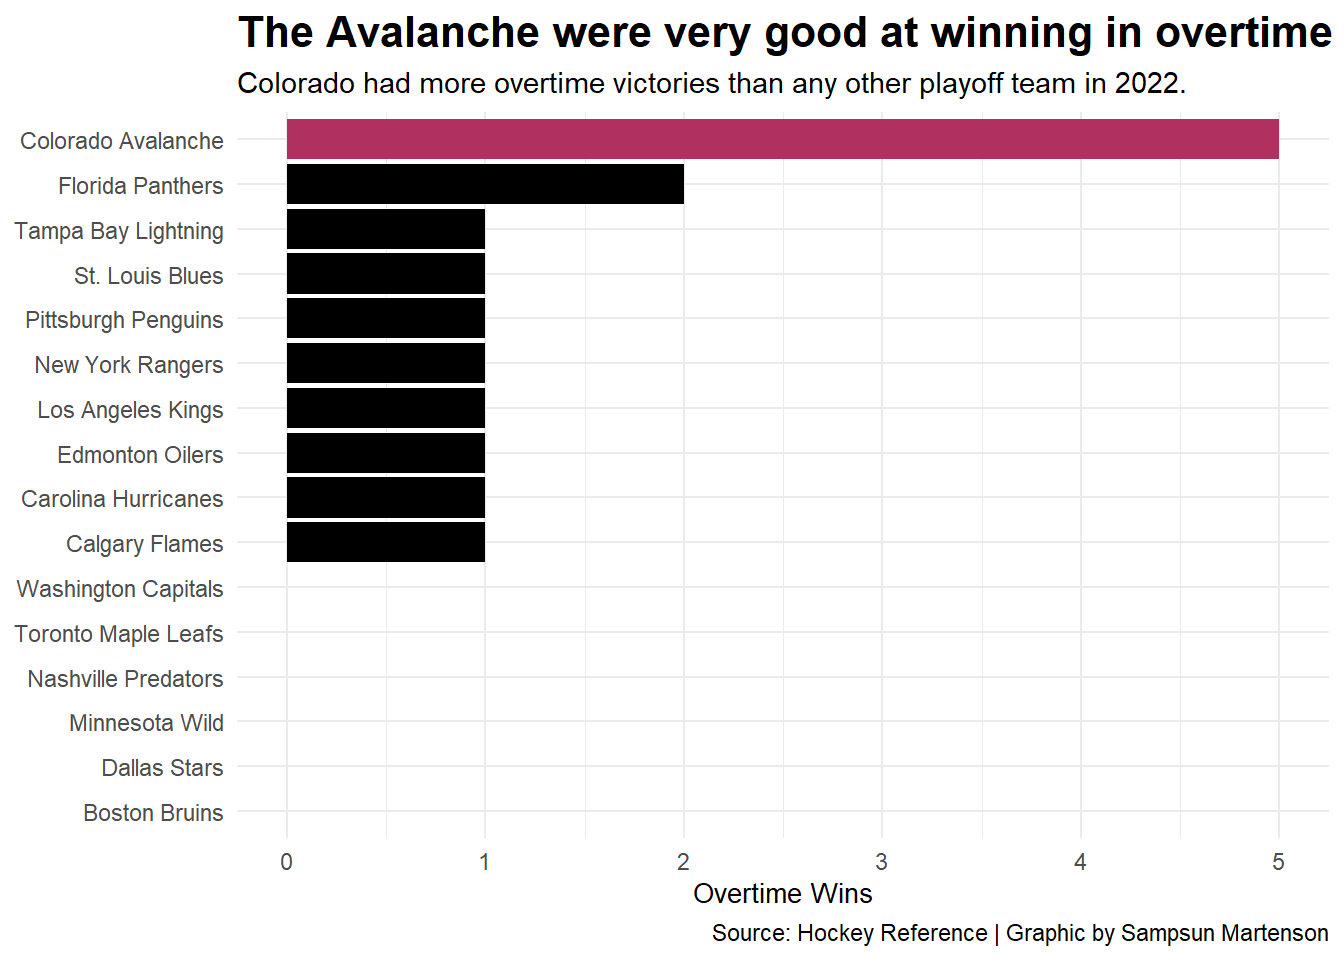
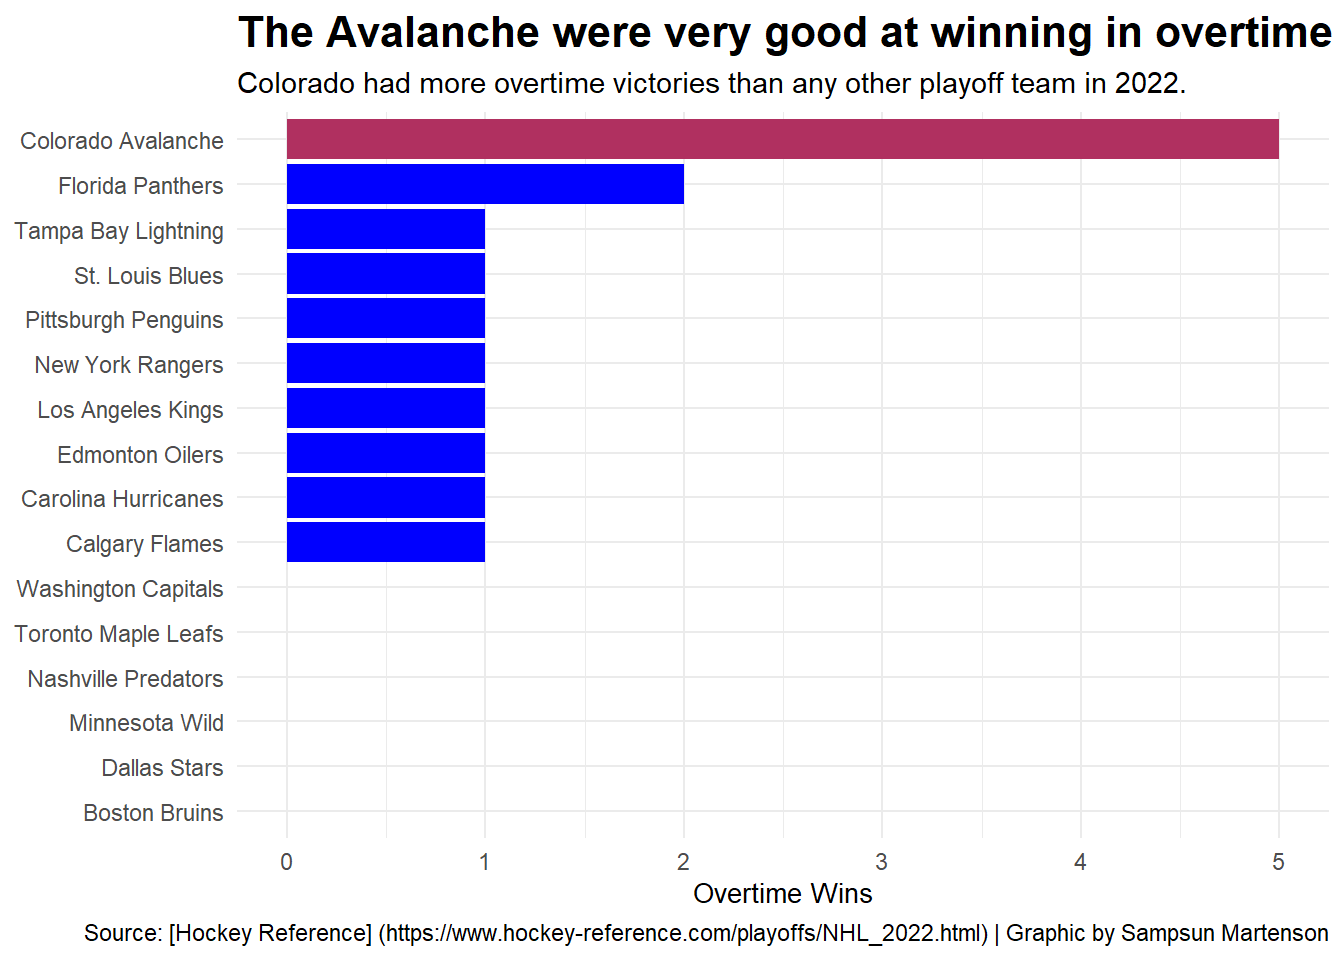
changes

Changed region(s): [[0.1875, 0.1562, 0.5312, 0.5938], [0.0625, 0.9375, 0.75, 1.0]]

diff --git a/posts/avalanche-dominance/index.html b/posts/avalanche-dominance/index.html
@@ -219,27 +219,19 @@ code span.wa { color: #60a0b0; font-weight: bold; font-style: italic; } /* Warni
 <div class="cell">
 <details>
 <summary>Code</summary>
-<div class="sourceCode cell-code" id="cb1"><pre class="sourceCode r code-with-copy"><code class="sourceCode r"><span id="cb1-1"><a href="#cb1-1" aria-hidden="true" tabindex="-1"></a><span class="fu">library</span>(tidyverse)</span></code><button title="Copy to Clipboard" class="code-copy-button"><i class="bi"></i></button></pre></div>
-</details>
-<div class="cell-output cell-output-stderr">
-<pre><code>── Attaching packages ─────────────────────────────────────── tidyverse 1.3.2 ──
-✔ ggplot2 3.4.0      ✔ purrr   1.0.1 
-✔ tibble  3.1.8      ✔ dplyr   1.0.10
-✔ tidyr   1.2.1      ✔ stringr 1.5.0 
-✔ readr   2.1.3      ✔ forcats 0.5.2 
-── Conflicts ────────────────────────────────────────── tidyverse_conflicts() ──
-✖ dplyr::filter() masks stats::filter()
-✖ dplyr::lag()    masks stats::lag()</code></pre>
-</div>
-<details>
-<summary>Code</summary>
-<div class="sourceCode cell-code" id="cb3"><pre class="sourceCode r code-with-copy"><code class="sourceCode r"><span id="cb3-1"><a href="#cb3-1" aria-hidden="true" tabindex="-1"></a><span class="fu">library</span>(readr)</span></code><button title="Copy to Clipboard" class="code-copy-button"><i class="bi"></i></button></pre></div>
+<div class="sourceCode cell-code" id="cb1"><pre class="sourceCode r code-with-copy"><code class="sourceCode r"><span id="cb1-1"><a href="#cb1-1" aria-hidden="true" tabindex="-1"></a><span class="fu">library</span>(tidyverse)</span>
+<span id="cb1-2"><a href="#cb1-2" aria-hidden="true" tabindex="-1"></a><span class="fu">library</span>(readr)</span>
+<span id="cb1-3"><a href="#cb1-3" aria-hidden="true" tabindex="-1"></a><span class="fu">library</span>(ggalt)</span>
+<span id="cb1-4"><a href="#cb1-4" aria-hidden="true" tabindex="-1"></a><span class="fu">library</span>(gt)</span>
+<span id="cb1-5"><a href="#cb1-5" aria-hidden="true" tabindex="-1"></a><span class="fu">library</span>(ggbeeswarm)</span>
+<span id="cb1-6"><a href="#cb1-6" aria-hidden="true" tabindex="-1"></a><span class="fu">library</span>(ggrepel)</span>
+<span id="cb1-7"><a href="#cb1-7" aria-hidden="true" tabindex="-1"></a><span class="fu">library</span>(ggtext)</span></code><button title="Copy to Clipboard" class="code-copy-button"><i class="bi"></i></button></pre></div>
 </details>
 </div>
 <div class="cell">
 <details>
 <summary>Code</summary>
-<div class="sourceCode cell-code" id="cb4"><pre class="sourceCode r code-with-copy"><code class="sourceCode r"><span id="cb4-1"><a href="#cb4-1" aria-hidden="true" tabindex="-1"></a>playoffs <span class="ot">&lt;-</span> <span class="fu">read_csv</span>(<span class="st">"data/AvalancheStats.csv"</span>)</span></code><button title="Copy to Clipboard" class="code-copy-button"><i class="bi"></i></button></pre></div>
+<div class="sourceCode cell-code" id="cb2"><pre class="sourceCode r code-with-copy"><code class="sourceCode r"><span id="cb2-1"><a href="#cb2-1" aria-hidden="true" tabindex="-1"></a>playoff <span class="ot">&lt;-</span> <span class="fu">read_csv</span>(<span class="st">"data/AvalancheStats.csv"</span>)</span></code><button title="Copy to Clipboard" class="code-copy-button"><i class="bi"></i></button></pre></div>
 </details>
 <div class="cell-output cell-output-stderr">
 <pre><code>Rows: 16 Columns: 12
@@ -253,6 +245,30 @@ dbl (11): Rk, GP, W, L, T, OW, OL, W-L%, G, GA, DIFF
 </div>
 <details>
 <summary>Code</summary>
+<div class="sourceCode cell-code" id="cb4"><pre class="sourceCode r code-with-copy"><code class="sourceCode r"><span id="cb4-1"><a href="#cb4-1" aria-hidden="true" tabindex="-1"></a>playoffs <span class="ot">&lt;-</span> playoff <span class="sc">%&gt;%</span></span>
+<span id="cb4-2"><a href="#cb4-2" aria-hidden="true" tabindex="-1"></a>  <span class="fu">mutate</span> (</span>
+<span id="cb4-3"><a href="#cb4-3" aria-hidden="true" tabindex="-1"></a>    <span class="at">GoalDifferential =</span> DIFF, </span>
+<span id="cb4-4"><a href="#cb4-4" aria-hidden="true" tabindex="-1"></a>    <span class="at">GoalsAgainst =</span> GA,</span>
+<span id="cb4-5"><a href="#cb4-5" aria-hidden="true" tabindex="-1"></a>    <span class="at">GoalsFor =</span> G</span>
+<span id="cb4-6"><a href="#cb4-6" aria-hidden="true" tabindex="-1"></a>    )</span>
+<span id="cb4-7"><a href="#cb4-7" aria-hidden="true" tabindex="-1"></a></span>
+<span id="cb4-8"><a href="#cb4-8" aria-hidden="true" tabindex="-1"></a><span class="fu">head</span>(playoffs)</span></code><button title="Copy to Clipboard" class="code-copy-button"><i class="bi"></i></button></pre></div>
+</details>
+<div class="cell-output cell-output-stdout">
+<pre><code># A tibble: 6 × 15
+     Rk Team           GP     W     L     T    OW    OL `W-L%`     G    GA  DIFF
+  &lt;dbl&gt; &lt;chr&gt;       &lt;dbl&gt; &lt;dbl&gt; &lt;dbl&gt; &lt;dbl&gt; &lt;dbl&gt; &lt;dbl&gt;  &lt;dbl&gt; &lt;dbl&gt; &lt;dbl&gt; &lt;dbl&gt;
+1     1 Colorado A…    20    16     4     0     5     1  0.8      85    55    30
+2     2 Tampa Bay …    23    14     9     0     1     2  0.609    67    61     6
+3     3 New York R…    20    10    10     0     1     2  0.5      62    58     4
+4     4 Edmonton O…    16     8     8     0     1     2  0.5      65    59     6
+5     5 Carolina H…    14     7     7     0     1     0  0.5      37    40    -3
+6     6 St. Louis …    12     6     6     0     1     1  0.5      40    38     2
+# ℹ 3 more variables: GoalDifferential &lt;dbl&gt;, GoalsAgainst &lt;dbl&gt;,
+#   GoalsFor &lt;dbl&gt;</code></pre>
+</div>
+<details>
+<summary>Code</summary>
 <div class="sourceCode cell-code" id="cb6"><pre class="sourceCode r code-with-copy"><code class="sourceCode r"><span id="cb6-1"><a href="#cb6-1" aria-hidden="true" tabindex="-1"></a>avs <span class="ot">&lt;-</span> playoffs <span class="sc">%&gt;%</span> <span class="fu">filter</span>(Team <span class="sc">==</span> <span class="st">"Colorado Avalanche"</span>)</span></code><button title="Copy to Clipboard" class="code-copy-button"><i class="bi"></i></button></pre></div>
 </details>
 </div>
@@ -260,7 +276,7 @@ dbl (11): Rk, GP, W, L, T, OW, OL, W-L%, G, GA, DIFF
 <details>
 <summary>Code</summary>
 <div class="sourceCode cell-code" id="cb7"><pre class="sourceCode r code-with-copy"><code class="sourceCode r"><span id="cb7-1"><a href="#cb7-1" aria-hidden="true" tabindex="-1"></a><span class="fu">ggplot</span>() <span class="sc">+</span> </span>
-<span id="cb7-2"><a href="#cb7-2" aria-hidden="true" tabindex="-1"></a>  <span class="fu">geom_bar</span>(<span class="at">data=</span>playoffs, <span class="fu">aes</span>(<span class="at">x=</span><span class="fu">reorder</span>(Team, OW), <span class="at">weight=</span> OW), <span class="at">fill=</span><span class="st">"black"</span>) <span class="sc">+</span></span>
+<span id="cb7-2"><a href="#cb7-2" aria-hidden="true" tabindex="-1"></a>  <span class="fu">geom_bar</span>(<span class="at">data=</span>playoffs, <span class="fu">aes</span>(<span class="at">x=</span><span class="fu">reorder</span>(Team, OW), <span class="at">weight=</span> OW), <span class="at">fill=</span><span class="st">"blue"</span>) <span class="sc">+</span></span>
 <span id="cb7-3"><a href="#cb7-3" aria-hidden="true" tabindex="-1"></a>  <span class="fu">geom_bar</span>(<span class="at">data=</span>avs, <span class="fu">aes</span>(<span class="at">x=</span><span class="fu">reorder</span>(Team, OW), <span class="at">weight=</span> OW), <span class="at">fill=</span><span class="st">"maroon"</span>) <span class="sc">+</span></span>
 <span id="cb7-4"><a href="#cb7-4" aria-hidden="true" tabindex="-1"></a>  <span class="fu">theme_minimal</span>() <span class="sc">+</span> </span>
 <span id="cb7-5"><a href="#cb7-5" aria-hidden="true" tabindex="-1"></a>  <span class="fu">coord_flip</span>() <span class="sc">+</span></span>
@@ -269,7 +285,7 @@ dbl (11): Rk, GP, W, L, T, OW, OL, W-L%, G, GA, DIFF
 <span id="cb7-8"><a href="#cb7-8" aria-hidden="true" tabindex="-1"></a>    <span class="at">y =</span> <span class="st">"Overtime Wins"</span>,</span>
 <span id="cb7-9"><a href="#cb7-9" aria-hidden="true" tabindex="-1"></a>    <span class="at">title=</span><span class="st">"The Avalanche were very good at winning in overtime"</span>, </span>
 <span id="cb7-10"><a href="#cb7-10" aria-hidden="true" tabindex="-1"></a>    <span class="at">subtitle=</span><span class="st">"Colorado had more overtime victories than any other playoff team in 2022."</span>,</span>
-<span id="cb7-11"><a href="#cb7-11" aria-hidden="true" tabindex="-1"></a>    <span class="at">caption=</span><span class="st">"Source: Hockey Reference | Graphic by Sampsun Martenson"</span>) <span class="sc">+</span> </span>
+<span id="cb7-11"><a href="#cb7-11" aria-hidden="true" tabindex="-1"></a>    <span class="at">caption=</span><span class="st">"Source: [Hockey Reference] (https://www.hockey-reference.com/playoffs/NHL_2022.html) | Graphic by Sampsun Martenson"</span>) <span class="sc">+</span> </span>
 <span id="cb7-12"><a href="#cb7-12" aria-hidden="true" tabindex="-1"></a>  <span class="fu">theme</span>(</span>
 <span id="cb7-13"><a href="#cb7-13" aria-hidden="true" tabindex="-1"></a>    <span class="at">plot.title =</span> <span class="fu">element_text</span>(<span class="at">size =</span> <span class="dv">16</span>, <span class="at">face =</span> <span class="st">"bold"</span>),</span>
 <span id="cb7-14"><a href="#cb7-14" aria-hidden="true" tabindex="-1"></a>    <span class="at">axis.title =</span> <span class="fu">element_text</span>(<span class="at">size =</span> <span class="dv">10</span>),</span>
@@ -287,6 +303,95 @@ dbl (11): Rk, GP, W, L, T, OW, OL, W-L%, G, GA, DIFF
 <pre><code>Saving 7 x 5 in image</code></pre>
 </div>
 </div>
+<p>This stat is a great place to start to show just how shut down and resiliant this Avalanche team was. They went into overtime a total of six times and won all but one of them over the course of their playoff run. This also included two overtime victories in the finals.</p>
+<p>The next stat we can look to is point differential to show just how ridiculous this Avalanche team was when scoring goals compared to other playoff teams.</p>
+<div class="cell">
+<details>
+<summary>Code</summary>
+<div class="sourceCode cell-code" id="cb10"><pre class="sourceCode r code-with-copy"><code class="sourceCode r"><span id="cb10-1"><a href="#cb10-1" aria-hidden="true" tabindex="-1"></a><span class="fu">library</span>(tidyverse)</span>
+<span id="cb10-2"><a href="#cb10-2" aria-hidden="true" tabindex="-1"></a><span class="fu">library</span>(ggrepel)</span></code><button title="Copy to Clipboard" class="code-copy-button"><i class="bi"></i></button></pre></div>
+</details>
+</div>
+<div class="cell">
+<details>
+<summary>Code</summary>
+<div class="sourceCode cell-code" id="cb11"><pre class="sourceCode r code-with-copy"><code class="sourceCode r"><span id="cb11-1"><a href="#cb11-1" aria-hidden="true" tabindex="-1"></a><span class="fu">ggplot</span>() <span class="sc">+</span> </span>
+<span id="cb11-2"><a href="#cb11-2" aria-hidden="true" tabindex="-1"></a>  <span class="fu">geom_point</span>(</span>
+<span id="cb11-3"><a href="#cb11-3" aria-hidden="true" tabindex="-1"></a>    <span class="at">data=</span>playoffs, </span>
+<span id="cb11-4"><a href="#cb11-4" aria-hidden="true" tabindex="-1"></a>    <span class="fu">aes</span>(<span class="at">x=</span>G, <span class="at">y=</span>GA, <span class="at">size=</span>GoalDifferential), </span>
+<span id="cb11-5"><a href="#cb11-5" aria-hidden="true" tabindex="-1"></a>    <span class="at">color=</span><span class="st">"blue"</span>, </span>
+<span id="cb11-6"><a href="#cb11-6" aria-hidden="true" tabindex="-1"></a>    <span class="at">alpha=</span>.<span class="dv">3</span>) <span class="sc">+</span> </span>
+<span id="cb11-7"><a href="#cb11-7" aria-hidden="true" tabindex="-1"></a>  <span class="fu">geom_point</span>(</span>
+<span id="cb11-8"><a href="#cb11-8" aria-hidden="true" tabindex="-1"></a>    <span class="at">data=</span>avs, </span>
+<span id="cb11-9"><a href="#cb11-9" aria-hidden="true" tabindex="-1"></a>    <span class="fu">aes</span>(<span class="at">x=</span>G, <span class="at">y=</span>GA, <span class="at">size=</span>GoalDifferential), </span>
+<span id="cb11-10"><a href="#cb11-10" aria-hidden="true" tabindex="-1"></a>    <span class="at">color=</span><span class="st">"maroon"</span>) <span class="sc">+</span> </span>
+<span id="cb11-11"><a href="#cb11-11" aria-hidden="true" tabindex="-1"></a>  <span class="fu">geom_vline</span>(<span class="at">xintercept =</span> <span class="fl">5.7</span>) <span class="sc">+</span> </span>
+<span id="cb11-12"><a href="#cb11-12" aria-hidden="true" tabindex="-1"></a>  <span class="fu">geom_hline</span>(<span class="at">yintercept =</span> <span class="fl">5.55</span>) <span class="sc">+</span></span>
+<span id="cb11-13"><a href="#cb11-13" aria-hidden="true" tabindex="-1"></a>  <span class="fu">geom_text_repel</span>(</span>
+<span id="cb11-14"><a href="#cb11-14" aria-hidden="true" tabindex="-1"></a>    <span class="at">data=</span>playoffs, </span>
+<span id="cb11-15"><a href="#cb11-15" aria-hidden="true" tabindex="-1"></a>    <span class="fu">aes</span>(<span class="at">x=</span>GoalsFor, <span class="at">y=</span>GoalsAgainst, <span class="at">label=</span>Team)</span>
+<span id="cb11-16"><a href="#cb11-16" aria-hidden="true" tabindex="-1"></a>  )<span class="sc">+</span></span>
+<span id="cb11-17"><a href="#cb11-17" aria-hidden="true" tabindex="-1"></a>  <span class="fu">theme_minimal</span>()<span class="sc">+</span></span>
+<span id="cb11-18"><a href="#cb11-18" aria-hidden="true" tabindex="-1"></a>    <span class="fu">labs</span>(</span>
+<span id="cb11-19"><a href="#cb11-19" aria-hidden="true" tabindex="-1"></a>    <span class="at">x =</span> <span class="st">"Goals For"</span>,</span>
+<span id="cb11-20"><a href="#cb11-20" aria-hidden="true" tabindex="-1"></a>    <span class="at">y =</span> <span class="st">"Goals Against"</span>,</span>
+<span id="cb11-21"><a href="#cb11-21" aria-hidden="true" tabindex="-1"></a>    <span class="at">title=</span><span class="st">"Colorado's Goals for and Goals Against Are an Incredible Ratio."</span>, </span>
+<span id="cb11-22"><a href="#cb11-22" aria-hidden="true" tabindex="-1"></a>    <span class="at">subtitle=</span><span class="st">"The Avalanche Goal Differential is by far the best of all playoff teams."</span>,</span>
+<span id="cb11-23"><a href="#cb11-23" aria-hidden="true" tabindex="-1"></a>    <span class="at">caption=</span><span class="st">"Source: Hockey Reference | Graphic by Sampsun Martenson"</span>) <span class="sc">+</span> </span>
+<span id="cb11-24"><a href="#cb11-24" aria-hidden="true" tabindex="-1"></a>  <span class="fu">theme</span>(</span>
+<span id="cb11-25"><a href="#cb11-25" aria-hidden="true" tabindex="-1"></a>    <span class="at">plot.title =</span> <span class="fu">element_text</span>(<span class="at">size =</span> <span class="dv">16</span>, <span class="at">face =</span> <span class="st">"bold"</span>),</span>
+<span id="cb11-26"><a href="#cb11-26" aria-hidden="true" tabindex="-1"></a>    <span class="at">axis.title =</span> <span class="fu">element_text</span>(<span class="at">size =</span> <span class="dv">10</span>),</span>
+<span id="cb11-27"><a href="#cb11-27" aria-hidden="true" tabindex="-1"></a>    <span class="at">axis.title.y =</span> <span class="fu">element_blank</span>()</span>
+<span id="cb11-28"><a href="#cb11-28" aria-hidden="true" tabindex="-1"></a>  )</span></code><button title="Copy to Clipboard" class="code-copy-button"><i class="bi"></i></button></pre></div>
+</details>
+<div class="cell-output-display">
+<p><img src="index_files/figure-html/unnamed-chunk-5-1.png" class="img-fluid" width="672"></p>
+</div>
+</div>
+<p>The final piece of this puzzle comes from how dominant the offense was able to be even when they may have been allowing more goals per game than the average playoff team.</p>
+<div class="cell">
+<details>
+<summary>Code</summary>
+<div class="sourceCode cell-code" id="cb12"><pre class="sourceCode r code-with-copy"><code class="sourceCode r"><span id="cb12-1"><a href="#cb12-1" aria-hidden="true" tabindex="-1"></a>average <span class="ot">&lt;-</span> playoffs<span class="sc">%&gt;%</span></span>
+<span id="cb12-2"><a href="#cb12-2" aria-hidden="true" tabindex="-1"></a>  <span class="fu">group_by</span>(Team) <span class="sc">%&gt;%</span></span>
+<span id="cb12-3"><a href="#cb12-3" aria-hidden="true" tabindex="-1"></a>  <span class="fu">mutate</span> (</span>
+<span id="cb12-4"><a href="#cb12-4" aria-hidden="true" tabindex="-1"></a>    <span class="at">AverageGoalsScored =</span> (G<span class="sc">/</span>GP),</span>
+<span id="cb12-5"><a href="#cb12-5" aria-hidden="true" tabindex="-1"></a>    <span class="at">AverageGoalsAllowed =</span> (GA<span class="sc">/</span>GP)) <span class="sc">%&gt;%</span></span>
+<span id="cb12-6"><a href="#cb12-6" aria-hidden="true" tabindex="-1"></a>  <span class="fu">select</span>(Team, AverageGoalsScored, AverageGoalsAllowed)</span></code><button title="Copy to Clipboard" class="code-copy-button"><i class="bi"></i></button></pre></div>
+</details>
+</div>
+<div class="cell">
+<details>
+<summary>Code</summary>
+<div class="sourceCode cell-code" id="cb13"><pre class="sourceCode r code-with-copy"><code class="sourceCode r"><span id="cb13-1"><a href="#cb13-1" aria-hidden="true" tabindex="-1"></a><span class="fu">ggplot</span>() <span class="sc">+</span> </span>
+<span id="cb13-2"><a href="#cb13-2" aria-hidden="true" tabindex="-1"></a>  <span class="fu">geom_dumbbell</span>(</span>
+<span id="cb13-3"><a href="#cb13-3" aria-hidden="true" tabindex="-1"></a>    <span class="at">data=</span>average, </span>
+<span id="cb13-4"><a href="#cb13-4" aria-hidden="true" tabindex="-1"></a>    <span class="fu">aes</span>(<span class="at">y=</span>Team, <span class="at">x=</span>AverageGoalsScored, <span class="at">xend=</span>AverageGoalsAllowed),</span>
+<span id="cb13-5"><a href="#cb13-5" aria-hidden="true" tabindex="-1"></a>    </span>
+<span id="cb13-6"><a href="#cb13-6" aria-hidden="true" tabindex="-1"></a>    <span class="at">size =</span> <span class="dv">2</span>,</span>
+<span id="cb13-7"><a href="#cb13-7" aria-hidden="true" tabindex="-1"></a>    <span class="at">colour =</span> <span class="st">"grey"</span>,</span>
+<span id="cb13-8"><a href="#cb13-8" aria-hidden="true" tabindex="-1"></a>    <span class="at">colour_x =</span> <span class="st">"green"</span>,</span>
+<span id="cb13-9"><a href="#cb13-9" aria-hidden="true" tabindex="-1"></a>    <span class="at">colour_xend =</span> <span class="st">"red"</span>)<span class="sc">+</span></span>
+<span id="cb13-10"><a href="#cb13-10" aria-hidden="true" tabindex="-1"></a>  <span class="fu">theme_minimal</span>()<span class="sc">+</span></span>
+<span id="cb13-11"><a href="#cb13-11" aria-hidden="true" tabindex="-1"></a>  <span class="fu">labs</span>( </span>
+<span id="cb13-12"><a href="#cb13-12" aria-hidden="true" tabindex="-1"></a>    <span class="at">x =</span> <span class="st">"Average Goals"</span>,</span>
+<span id="cb13-13"><a href="#cb13-13" aria-hidden="true" tabindex="-1"></a>    <span class="at">y =</span> <span class="st">"Team"</span>,</span>
+<span id="cb13-14"><a href="#cb13-14" aria-hidden="true" tabindex="-1"></a>    <span class="at">title=</span><span class="st">"The Avalanche have a great offense that offsets an average defense"</span>, </span>
+<span id="cb13-15"><a href="#cb13-15" aria-hidden="true" tabindex="-1"></a>    <span class="at">subtitle =</span> <span class="st">"If &lt;span style = 'color:green;'&gt;AverageGoalsScored&lt;/span&gt; is on the right the team is doing well. If &lt;span style = 'color:red;'&gt;AverageGoalsAllowed&lt;/span&gt; are on the right, not so much."</span>,  </span>
+<span id="cb13-16"><a href="#cb13-16" aria-hidden="true" tabindex="-1"></a>  <span class="at">caption=</span><span class="st">"Source: Hockey Reference | Graphic by Sampsun Martenson"</span>) <span class="sc">+</span></span>
+<span id="cb13-17"><a href="#cb13-17" aria-hidden="true" tabindex="-1"></a>  <span class="fu">theme</span>(</span>
+<span id="cb13-18"><a href="#cb13-18" aria-hidden="true" tabindex="-1"></a>    <span class="at">plot.subtitle =</span> <span class="fu">element_textbox_simple</span>()</span>
+<span id="cb13-19"><a href="#cb13-19" aria-hidden="true" tabindex="-1"></a>  )</span></code><button title="Copy to Clipboard" class="code-copy-button"><i class="bi"></i></button></pre></div>
+</details>
+<div class="cell-output cell-output-stderr">
+<pre><code>Warning: Using the `size` aesthietic with geom_segment was deprecated in ggplot2 3.4.0.
+ℹ Please use the `linewidth` aesthetic instead.</code></pre>
+</div>
+<div class="cell-output-display">
+<p><img src="index_files/figure-html/unnamed-chunk-7-1.png" class="img-fluid" width="672"></p>
+</div>
+</div>
+<p>All of this comes together to make the 2022 Avalanche a tremendous playoff team.</p>
 
 
 

diff --git a/index.html b/index.html
@@ -171,7 +171,7 @@ ul.task-list li input[type="checkbox"] {
 
 <div class="quarto-listing quarto-listing-container-default" id="listing-listing">
 <div class="list quarto-listing-default">
-<div class="quarto-post image-right" data-index="0" data-categories="hockey,colorado,analysis" data-listing-date-sort="1679374800000" data-listing-file-modified-sort="1681427227931" data-listing-reading-time-sort="2.43">
+<div class="quarto-post image-right" data-index="0" data-categories="hockey,colorado,analysis" data-listing-date-sort="1679374800000" data-listing-file-modified-sort="1681495889395" data-listing-reading-time-sort="3.435">
 <div class="thumbnail">
 <p><a href="./posts/avalanche-dominance/index.html"> <img src="./posts/avalanche-dominance/image.png" class="thumnail-image"> </a></p>
 </div>
